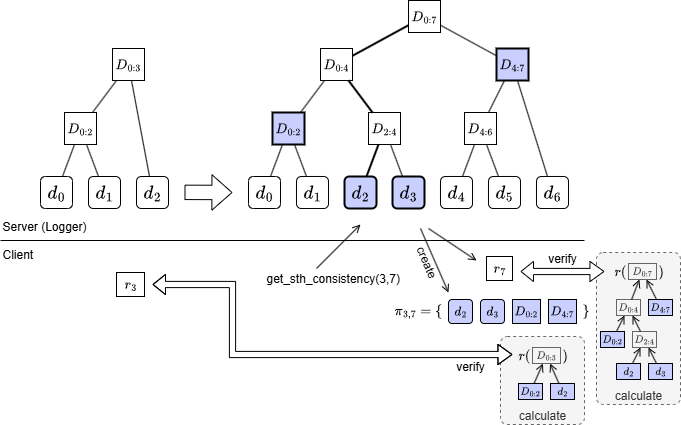
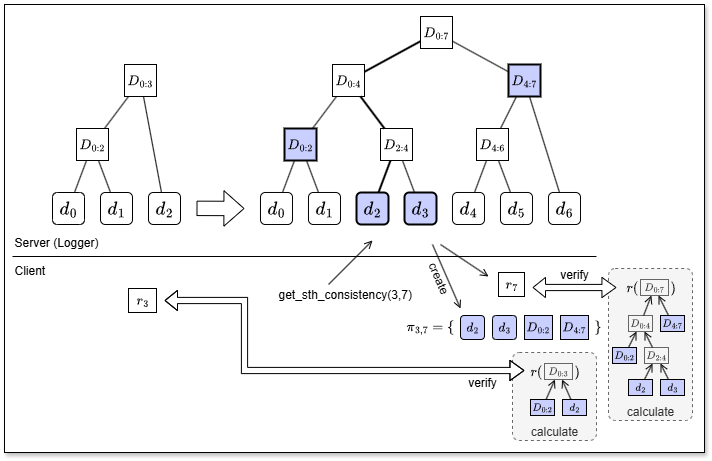
CT追記

Changed region(s): [[0.0, 0.0, 1.0, 1.0], [0.1542, 0.1224, 0.2159, 0.3365]]

diff --git a/articles/20251010-rfc9162-certificate-transparency-version2.md b/articles/20251010-rfc9162-certificate-transparency-version2.md
@@ -140,9 +140,9 @@ $$
 {\rm subproof}(m, D_{0:n}, b) \to {\rm NodeList}
 $$
 
-CT の文書に現われる*完全性フラグ $b$* の意味はヒューリスティックでやや解釈が難しいところです。これは、再帰の基底で $b={\tt true}$ になっていた場合、クライアントはその部分木のルートハッシュ $r(D_{0:m})$ を既に知っているはず、つまり、そのノードは要求のあった増分証明の元の木構造 $T_1$ のルートノードなので、基底の位置のノードは証明に含める必要はないことを意味しており、したがって証明に含める必要がないことを示しています。
+CT の文書に現われる*完全性フラグ $b$* の意味はヒューリスティックでやや解釈が難しいところです。これは、再帰の基底で $b={\tt true}$ になっていた場合、クライアントはその部分木のルートハッシュ $r(D_{0:m})$ を既に知っているはず、つまり、そのノードは要求のあった増分証明の元の木構造 $T_1$ のルートノードなので、その位置以下のノードは証明に含める必要はないことを意味います。
 
-${\rm subproof}$ は目的の葉ノードに向かって木構造を下りながら経路近傍のノードを収集する。増分証明 $\pi_{n_1,n_2}$ は以下のように表すことができます。
+${\rm subproof}$ は目的の葉ノードに向かって木構造を下りながら経路近傍のノードを収集します。増分証明 $\pi_{n_1,n_2}$ は以下のように表すことができます。
 
 $$
 \pi_{n_1,n_2} = {\rm subproof}(n_1,D_{0:n_2},{\tt true})
@@ -152,8 +152,8 @@ $$
 
 $$
 {\rm subproof}(m, D_{0:n}, b) = \begin{cases}
-{\rm subproof}(m, D_{0:k}, b)\ \oplus\ {r(D_{k:n})} & \text{if } m \leq k \text{; 左枝に含まれる}\\
-{\rm subproof}(m - k, D_{k:m}, {\tt false})\ \oplus\ r(D_{0:k}) & \text{if } m > k \text{; 右枝に含まれる}
+{\rm subproof}(m, D_{0:k}, b)\ \oplus\ {r(D_{k:n})} & \text{if } m \leq k\\
+{\rm subproof}(m - k, D_{k:m}, {\tt false})\ \oplus\ r(D_{0:k}) & \text{if } m > k
 \end{cases}
 $$
 
@@ -234,8 +234,6 @@ $$
 ## まとめ: 改ざん防止を実現する追記専用のデータ構造
 
 Certificate Transparency (CT) の基盤となるマークルツリー (履歴ツリー) は、CA や証明書に依存するインターネットの信頼性を確保するための、監査可能な改ざん防止ログ機構として効率的な設計です。この構造の最も重要な特徴は、ログのサイズ $N$ に対数的なサイズと時間で証明を生成/検証できる点にあります。これらはネットワークコストを抑えつつ、迅速に検証プロトコルを完了することができるため、所属証明と増分証明の現実的な適用に寄与しています。
-
-## 参考文献
 
 [^1]: MERKLE, Ralph C. A certified digital signature. In: Conference on the Theory and Application of Cryptology. New York, NY: Springer New York, 1989. p. 218-238.
 [^2]: CROSBY, Scott A.; WALLACH, Dan S. [Efficient data structures for tamper-evident logging](https://static.usenix.org/event/sec09/tech/full_papers/crosby.pdf). In: USENIX security symposium. 2009. p. 317-334.
